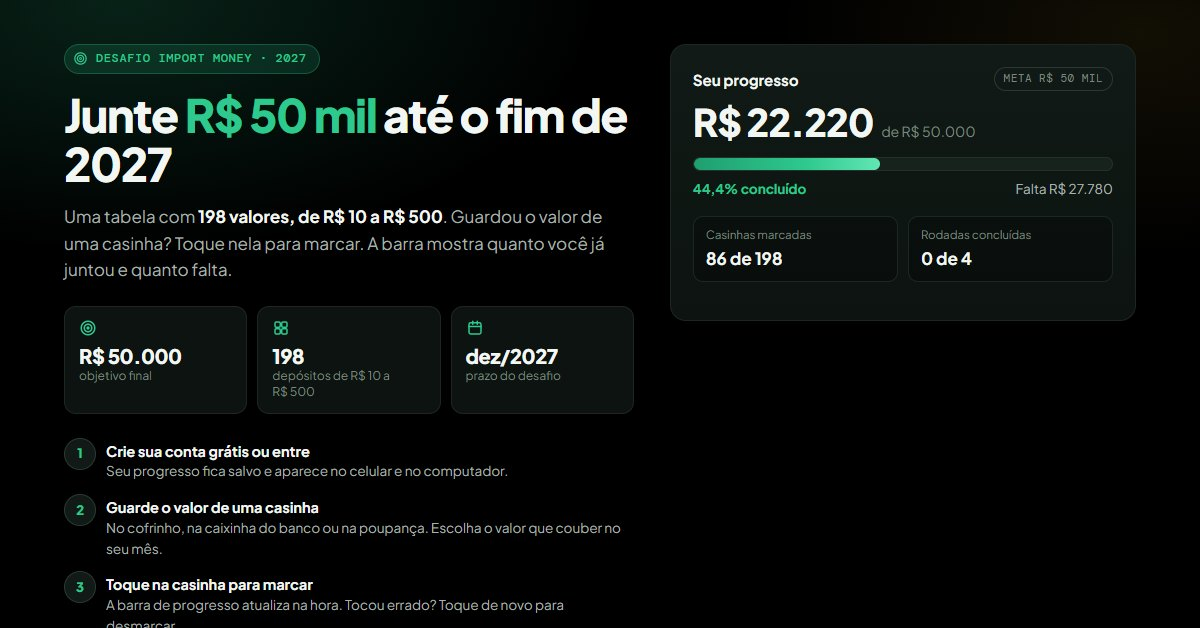
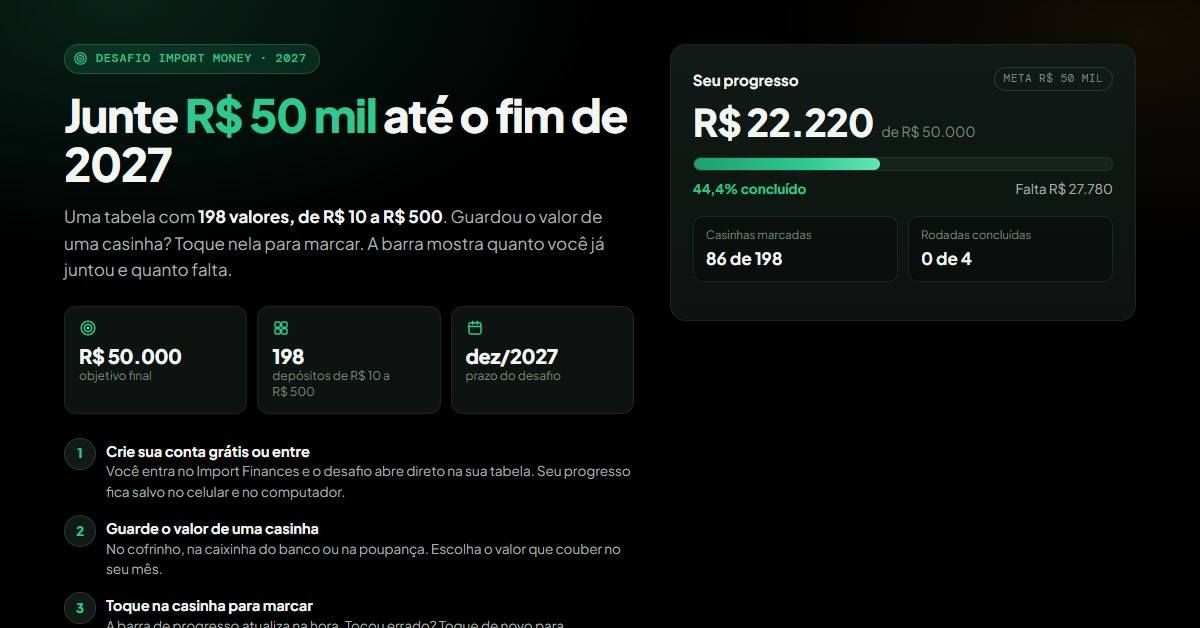
Vitrine do desafio: os botoes levam ao Import Finances, na aba do desafio
"Criar conta gratis" e "Ja tenho conta" (e o botao do topo) abrem, na mesma
janela, https://www.importmoney.com/import-finances?aba=desafio&entrar=signup|login.
A pessoa cria a conta ou entra la e o app abre direto na aba do desafio.
Texto da trava e imagem de compartilhamento atualizados.

Changed region(s): [[0.0308, 0.7261, 0.5242, 1.0]]

diff --git a/index.html b/index.html
@@ -302,7 +302,7 @@
         <div class="fato"><svg class="ic" aria-hidden="true"><use href="#i-cal"/></svg><b>dez/2027</b><small>prazo do desafio</small></div>
       </div>
       <ol class="passos">
-        <li><div><b>Crie sua conta grátis ou entre</b><span>Seu progresso fica salvo e aparece no celular e no computador.</span></div></li>
+        <li><div><b>Crie sua conta grátis ou entre</b><span>Você entra no Import Finances e o desafio abre direto na sua tabela. Seu progresso fica salvo no celular e no computador.</span></div></li>
         <li><div><b>Guarde o valor de uma casinha</b><span>No cofrinho, na caixinha do banco ou na poupança. Escolha o valor que couber no seu mês.</span></div></li>
         <li><div><b>Toque na casinha para marcar</b><span>A barra de progresso atualiza na hora. Tocou errado? Toque de novo para desmarcar.</span></div></li>
       </ol>
@@ -377,7 +377,7 @@
       <div class="qa"><h3>E se eu marcar uma casinha errada?</h3><p>Toque de novo nela para desmarcar. A barra de progresso volta na hora.</p></div>
       <div class="qa"><h3>Onde fica salvo o meu progresso?</h3><p>Na sua conta da Import Money. Entre com o mesmo e-mail no celular ou no computador e a tabela aparece do jeito que você deixou.</p></div>
       <div class="qa"><h3>Por que as rodadas 3 e 4 vão até R$&nbsp;490?</h3><p>Para a soma fechar em R$&nbsp;50.000 exatos: duas rodadas de R$&nbsp;10 a R$&nbsp;500 (R$&nbsp;12.750 cada) e duas de R$&nbsp;10 a R$&nbsp;490 (R$&nbsp;12.250 cada).</p></div>
-      <div class="qa"><h3>O desafio é gratuito?</h3><p>Sim. Basta criar a sua conta grátis na Import Money para usar a tabela e salvar o seu progresso.</p></div>
+      <div class="qa"><h3>O desafio é gratuito?</h3><p>Sim. Basta criar a sua conta grátis na Import Money. O desafio fica numa aba do Import Finances, que tem plano gratuito, e o seu progresso fica salvo na conta.</p></div>
     </div>
   </section>
   <p class="wrap rodape">O Desafio R$&nbsp;50 mil é uma ferramenta de organização para guardar dinheiro. Não é recomendação de investimento.</p>
@@ -394,7 +394,7 @@
   var PRAZO_ANO = 2027, PRAZO_MES = 12;            // o desafio vai até dezembro de 2027 (inclusive)
   var VERSAO_TABELA = '4r-50k';                    // muda só se a tabela mudar (o backend recusa outra versão)
   var RODADAS = [50, 50, 49, 49];                  // casinhas por rodada (R$ 10 em R$ 10): 12.750 + 12.750 + 12.250 + 12.250
-  var PAGINA_NO_SITE = 'https://www.importmoney.com/desafio-50-mil';
+  var FINANCES_DESAFIO = 'https://www.importmoney.com/import-finances?aba=desafio'; // a plataforma, direto na aba do desafio
   var LINK_FINANCES = 'https://financas.importmoney.com/';
   var LINK_MONEY = 'https://invest.importmoney.com/';
   var MESES = ['janeiro', 'fevereiro', 'março', 'abril', 'maio', 'junho', 'julho', 'agosto', 'setembro', 'outubro', 'novembro', 'dezembro'];
@@ -617,14 +617,19 @@
         '<p>' + esc(S.erroTrava || 'Verifique a sua internet e tente de novo.') + '</p>' +
         '<div class="trava-btns"><button type="button" class="btn btn-p" data-acao="tentar">Tentar de novo</button></div>';
     } else if (S.fase === 'fora') {
-      // vitrine (desafio.importmoney.com) ou o arquivo aberto sozinho: o login e a tabela salva ficam na página do Wix
+      // vitrine (desafio.importmoney.com) ou o arquivo aberto sozinho: a pessoa entra no Import Finances (mesma janela), que abre na aba do desafio
       h = '<div class="trava-ic"><svg class="ic" aria-hidden="true"><use href="#i-lock"/></svg></div>' +
         '<h3>Entre para usar a sua tabela</h3>' +
-        '<p>É grátis. A tabela fica no site da Import Money: entre na sua conta e cada casinha que você marcar fica salva.</p>' +
+        '<p>É grátis. Você entra no Import Finances, a plataforma de controle financeiro da Import Money, e o desafio abre direto na sua tabela.</p>' +
         '<div class="trava-btns">' +
         '<a class="btn btn-p" href="' + linkDoSite('signup') + '" target="_top">Criar conta grátis</a>' +
         '<a class="btn btn-s" href="' + linkDoSite('login') + '" target="_top">Já tenho conta</a></div>' +
-        '<p class="trava-nota">Você vai para a página do desafio no site da Import Money.</p>';
+        '<p class="trava-nota">Cada casinha que você marcar fica salva na sua conta.</p>';
+    } else if (S.fase === 'indo') {
+      // o código da página está levando quem já entrou para o Import Finances (D50_IR); o link só ajuda se a troca de página não acontecer
+      h = '<div class="giro" aria-hidden="true"></div><h3>Abrindo o Import Finances…</h3>' +
+        '<p>O desafio abre lá, na aba "Desafio R$ 50 mil". Só um instante.</p>' +
+        '<p class="trava-nota"><a href="' + FINANCES_DESAFIO + '" target="_top" style="color:var(--green)">Se não abrir sozinho, toque aqui.</a></p>';
     }
     card.innerHTML = h;
     marcarBotoesLogin();
@@ -640,7 +645,7 @@
   function enviar(m) { try { window.parent.postMessage(m, '*'); } catch (e) { /* sem Wix */ } }
   var timerCarga = null;
   function pedirDados() {
-    if (!NO_WIX || S.fase === 'pronto') return;
+    if (!NO_WIX || S.fase === 'pronto' || S.fase === 'indo') return;
     enviar({ tipo: 'D50_PRONTO' });
     clearTimeout(timerCarga);
     timerCarga = setTimeout(function () {
@@ -652,10 +657,10 @@
   }
   function aposEntrar() {
     S.entrando = false; S.janelaLogin = Date.now(); S.tentLogin = 0;
-    if (S.fase !== 'pronto') { S.fase = 'carregando'; mostrarTrava(); pedirDados(); }
+    if (S.fase !== 'pronto' && S.fase !== 'indo') { S.fase = 'carregando'; mostrarTrava(); pedirDados(); }
   }
-  // Página do desafio no Wix; ?entrar= diz qual botão a pessoa tocou na vitrine
-  function linkDoSite(modo) { return PAGINA_NO_SITE + '?entrar=' + (modo === 'signup' ? 'signup' : 'login'); }
+  // Import Finances na aba do desafio; &entrar= diz qual botão a pessoa tocou na vitrine (a janela de conta abre em "Criar conta" ou "Já tenho conta")
+  function linkDoSite(modo) { return FINANCES_DESAFIO + '&entrar=' + (modo === 'signup' ? 'signup' : 'login'); }
   function pedirLogin(modo) {
     if (!NO_WIX) { window.top.location.href = linkDoSite(modo); return; }
     if (S.entrando) return;
@@ -669,7 +674,12 @@
   window.addEventListener('message', function (ev) {
     var m = ev.data;
     if (!m || typeof m !== 'object' || typeof m.tipo !== 'string' || m.tipo.indexOf('D50_') !== 0) return;
+    if (S.fase === 'indo') return;                            // já está indo para o Import Finances: nada mais muda a tela
     switch (m.tipo) {
+      case 'D50_IR':
+        S.velo = true; clearTimeout(timerCarga); S.entrando = false;
+        S.fase = 'indo'; mostrarTrava(); mostrarStatus('');
+        break;
       case 'D50_VELO_PRONTO':
         S.velo = true;
         if (S.fase !== 'pronto') { if (S.fase === 'semresposta') { S.fase = 'carregando'; mostrarTrava(); } pedirDados(); }
